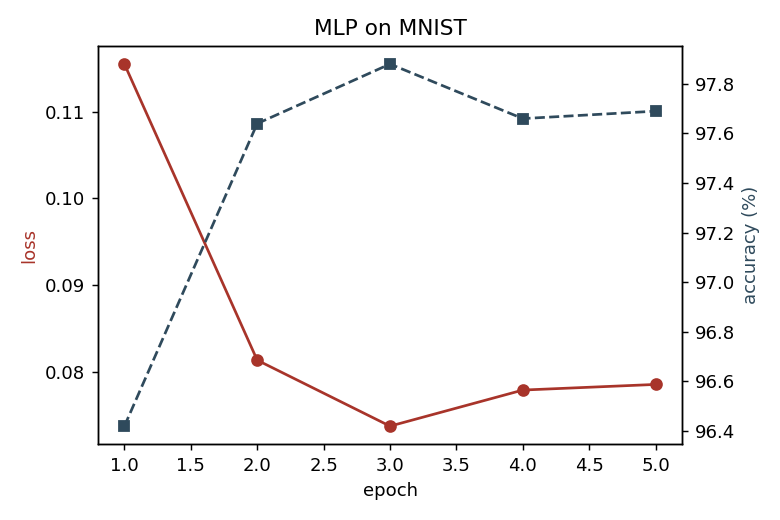
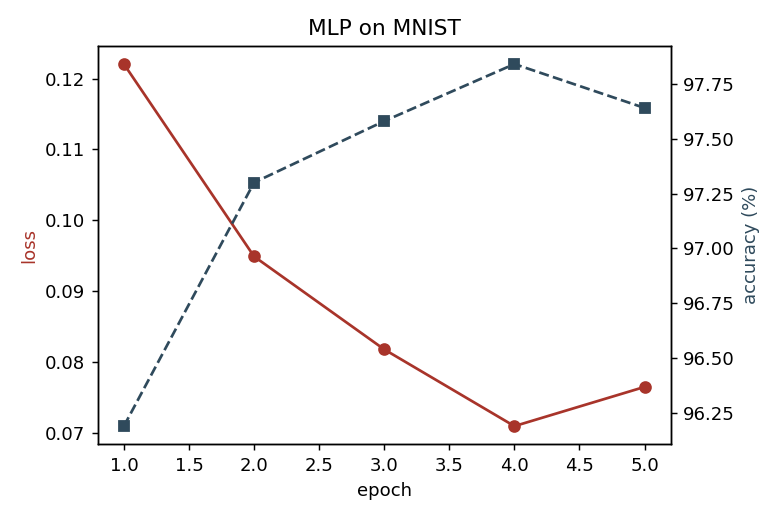
W3: 单隐藏层神经网络（numpy 手写，含注释）+ 决策边界

diff --git a/playground/nn_one_hidden.py b/playground/nn_one_hidden.py
@@ -1,0 +1,253 @@
+"""
+一个隐藏层的神经网络（纯 numpy，对应吴恩达第一门课第三周作业）
+=====================================================================
+网络结构：  输入 2 维  →  隐藏层 n_h 个神经元  →  输出 1 个（0/1 二分类）
+
+    X (2, m)  ──W1,b1──▶  Z1 (n_h, m)  ──tanh──▶  A1  ──W2,b2──▶  Z2 (1, m)  ──sigmoid──▶  A2 (1, m)
+
+约定（和课件一致）：
+    n_x = 输入维度  = 2
+    n_h = 隐藏层单元数 = 8
+    n_y = 输出维度  = 1
+    m   = 样本个数
+    W1 形状 (n_h, n_x)   b1 形状 (n_h, 1)
+    W2 形状 (n_y, n_h)   b2 形状 (n_y, 1)
+
+运行：python playground\\nn_one_hidden.py
+"""
+
+import os
+
+import numpy as np
+import matplotlib
+matplotlib.use("Agg")          # 不弹窗，直接存图
+import matplotlib.pyplot as plt
+
+# 让图里的中文正常显示（默认字体没有汉字，会变成方块）
+plt.rcParams["font.sans-serif"] = ["Microsoft YaHei", "SimHei"]
+plt.rcParams["axes.unicode_minus"] = False
+
+HERE = os.path.dirname(os.path.abspath(__file__))
+
+np.random.seed(1)              # 固定随机种子，结果可复现
+
+
+# =====================================================================
+# 第 1 步：造数据
+# =====================================================================
+def load_data(m=400):
+    """
+    生成一个「同心圆」数据集：内圈是类别 0，外圈是类别 1。
+    这种数据用一条直线分不开，必须靠隐藏层把它「掰弯」——正是我们想验证的事。
+
+    返回：
+        X: (2, m)  每一列是一个样本的两个特征
+        Y: (1, m)  每一列是对应标签（0 或 1）
+    """
+    theta = np.random.rand(m) * 2 * np.pi          # 随机角度
+    r = np.sqrt(np.random.rand(m)) * 3             # 随机半径（开根号保证均匀分布）
+    x1 = r * np.cos(theta)
+    x2 = r * np.sin(theta)
+    X = np.vstack((x1, x2))                        # (2, m)
+
+    Y = (r > 1.5).astype(float).reshape(1, m)      # 半径 > 1.5 算外圈 → 标签 1
+    return X, Y
+
+
+# =====================================================================
+# 第 2 步：初始化参数
+# =====================================================================
+def initialize_parameters(n_x, n_h, n_y):
+    """
+    随机初始化 W（不能全 0，否则同一层的神经元学到的完全一样），b 初始化为 0。
+
+    返回字典：
+        W1 (n_h, n_x)   b1 (n_h, 1)
+        W2 (n_y, n_h)   b2 (n_y, 1)
+    """
+    W1 = np.random.randn(n_h, n_x) * 0.01          # 很小的随机数
+    b1 = np.zeros((n_h, 1))
+    W2 = np.random.randn(n_y, n_h) * 0.01
+    b2 = np.zeros((n_y, 1))
+
+    # 形状自检：形状错了后面会算出一堆莫名其妙的结果，这里先拦住
+    assert W1.shape == (n_h, n_x)
+    assert b1.shape == (n_h, 1)
+    assert W2.shape == (n_y, n_h)
+    assert b2.shape == (n_y, 1)
+
+    return {"W1": W1, "b1": b1, "W2": W2, "b2": b2}
+
+
+# =====================================================================
+# 第 3 步：前向传播（从 X 一路算到预测值 A2）
+# =====================================================================
+def forward_propagation(X, params):
+    """
+    输入：
+        X      (n_x, m)
+        params 上一步的字典
+
+    计算过程（四行，就是网络的全部「前向」）：
+        Z1 = W1·X + b1       线性组合
+        A1 = tanh(Z1)        激活（隐藏层用 tanh，输出在 -1~1）
+        Z2 = W2·A1 + b2      再线性组合
+        A2 = sigmoid(Z2)     压到 0~1，当作「是类别 1 的概率」
+
+    返回：
+        A2     (n_y, m)  预测概率
+        cache  中间结果，反向传播要用（不然得重算一遍）
+    """
+    W1, b1, W2, b2 = params["W1"], params["b1"], params["W2"], params["b2"]
+
+    Z1 = W1 @ X + b1                    # (n_h, m)
+    A1 = np.tanh(Z1)                    # (n_h, m)
+    Z2 = W2 @ A1 + b2                   # (n_y, m)
+    A2 = 1 / (1 + np.exp(-Z2))          # sigmoid，直接写公式，不调库
+
+    assert A2.shape == (1, X.shape[1])
+    cache = {"Z1": Z1, "A1": A1, "Z2": Z2, "A2": A2}
+    return A2, cache
+
+
+# =====================================================================
+# 第 4 步：算代价（预测得有多差，一个数字）
+# =====================================================================
+def compute_cost(A2, Y):
+    """
+    交叉熵：J = -(1/m) Σ [ y·log(â) + (1-y)·log(1-â) ]
+
+    直觉：
+        真值是 1，你预测 0.99 → log(0.99)≈-0.01，代价很小
+        真值是 1，你预测 0.01 → log(0.01)≈-4.6，代价很大
+        所以「猜错且自信」罚得最重。
+    """
+    m = Y.shape[1]
+    # 加 1e-8 防止 log(0) 变成 -inf（数值稳定的小技巧，课件里也这么写）
+    cost = -np.sum(Y * np.log(A2 + 1e-8) + (1 - Y) * np.log(1 - A2 + 1e-8)) / m
+    return float(np.squeeze(cost))
+
+
+# =====================================================================
+# 第 5 步：反向传播（从代价倒着算每层参数该改多少）
+# =====================================================================
+def backward_propagation(params, cache, X, Y):
+    """
+    链式法则，六行公式（这是整个神经网络最核心的地方）：
+
+        dZ2 = A2 - Y                      输出层误差，形状 (n_y, m)
+        dW2 = (1/m) dZ2·A1ᵀ               W2 该改多少，形状 (n_y, n_h)
+        db2 = (1/m) Σ dZ2                 b2 该改多少，形状 (n_y, 1)
+        dZ1 = (W2ᵀ·dZ2) * (1 - A1²)      误差传回隐藏层，tanh 的导数就是 1-A1²
+        dW1 = (1/m) dZ1·Xᵀ                W1 该改多少，形状 (n_h, n_x)
+        db1 = (1/m) Σ dZ1                 b1 该改多少，形状 (n_h, 1)
+
+    返回 grads 字典，和 params 一一对应。
+    """
+    m = X.shape[1]
+    W2 = params["W2"]
+    A1, A2 = cache["A1"], cache["A2"]
+
+    dZ2 = A2 - Y                                  # (n_y, m)
+    dW2 = dZ2 @ A1.T / m                          # (n_y, n_h)
+    db2 = np.sum(dZ2, axis=1, keepdims=True) / m  # (n_y, 1)
+
+    dZ1 = (W2.T @ dZ2) * (1 - A1 ** 2)            # (n_h, m)，tanh' = 1 - tanh²
+    dW1 = dZ1 @ X.T / m                           # (n_h, n_x)
+    db1 = np.sum(dZ1, axis=1, keepdims=True) / m  # (n_h, 1)
+
+    assert dW1.shape == params["W1"].shape
+    assert dW2.shape == params["W2"].shape
+    return {"dW1": dW1, "db1": db1, "dW2": dW2, "db2": db2}
+
+
+# =====================================================================
+# 第 6 步：梯度下降（按梯度反方向挪一小步）
+# =====================================================================
+def update_parameters(params, grads, learning_rate):
+    """
+    W = W - 学习率 × dW
+    b = b - 学习率 × db
+
+    为什么要减：梯度指向上坡，减就是往下坡走，cost 才会变小。
+    """
+    params["W1"] -= learning_rate * grads["dW1"]
+    params["b1"] -= learning_rate * grads["db1"]
+    params["W2"] -= learning_rate * grads["dW2"]
+    params["b2"] -= learning_rate * grads["db2"]
+    return params
+
+
+# =====================================================================
+# 第 7 步：把上面六步串起来训练
+# =====================================================================
+def nn_model(X, Y, n_h=8, num_iterations=10000, learning_rate=1.0, print_cost=True):
+    """
+    每一轮做的事（顺序永远是这个）：
+        前向 → 算代价 → 反向 → 更新
+    """
+    n_x = X.shape[0]
+    n_y = Y.shape[0]
+    params = initialize_parameters(n_x, n_h, n_y)
+    costs = []
+
+    for i in range(num_iterations):
+        A2, cache = forward_propagation(X, params)      # ① 前向：猜
+        cost = compute_cost(A2, Y)                     # ② 算代价：错多少
+        grads = backward_propagation(params, cache, X, Y)  # ③ 反向：谁该改、改多少
+        params = update_parameters(params, grads, learning_rate)  # ④ 更新
+
+        if print_cost and i % 2000 == 0:
+            print(f"第 {i:5d} 轮   cost = {cost:.6f}")
+        costs.append(cost)
+
+    return params, costs
+
+
+# =====================================================================
+# 第 8 步：预测 + 看准确率
+# =====================================================================
+def predict(params, X):
+    """概率 > 0.5 判为 1，否则 0。"""
+    A2, _ = forward_propagation(X, params)
+    return (A2 > 0.5).astype(int)
+
+
+def main():
+    X, Y = load_data(400)
+    print("数据形状 X:", X.shape, " Y:", Y.shape, "\n")
+
+    params, costs = nn_model(X, Y, n_h=8, num_iterations=10000, learning_rate=1.0)
+
+    pred = predict(params, X)
+    acc = np.mean(pred == Y) * 100
+    print(f"\n训练集准确率：{acc:.2f}%")
+
+    # ---- 画决策边界：看看隐藏层把空间掰成什么样了 ----
+    xx, yy = np.meshgrid(np.linspace(-3.2, 3.2, 300), np.linspace(-3.2, 3.2, 300))
+    grid = np.vstack((xx.ravel(), yy.ravel()))
+    Z = predict(params, grid).reshape(xx.shape)
+
+    plt.figure(figsize=(6, 5))
+    plt.contourf(xx, yy, Z, alpha=0.25, cmap="RdBu")
+    plt.scatter(X[0, Y[0] == 0], X[1, Y[0] == 0], s=12, c="#2f4a5c", label="class 0 (内圈)")
+    plt.scatter(X[0, Y[0] == 1], X[1, Y[0] == 1], s=12, c="#a8342a", label="class 1 (外圈)")
+    plt.legend(loc="upper right", fontsize=9)
+    plt.title(f"1 hidden layer (n_h=8), acc={acc:.1f}%")
+    plt.tight_layout()
+    plt.savefig(os.path.join(HERE, "nn_boundary.png"), dpi=130)
+    print("决策边界已保存：playground/nn_boundary.png")
+
+    # ---- 画 cost 曲线 ----
+    plt.figure(figsize=(6, 4))
+    plt.plot(costs, color="#a8342a")
+    plt.xlabel("iteration")
+    plt.ylabel("cost")
+    plt.title("cost 下降曲线")
+    plt.tight_layout()
+    plt.savefig(os.path.join(HERE, "nn_cost.png"), dpi=130)
+    print("cost 曲线已保存：playground/nn_cost.png")
+
+
+if __name__ == "__main__":
+    main()

diff --git a/playground/mlp_torch.py b/playground/mlp_torch.py
@@ -30,12 +30,24 @@ from torch.utils.data import DataLoader
 from torchvision import datasets, transforms
 
 # ---------- 超参数：先动这几个数就行 ----------
-BATCH = 64        # 一次喂多少张图
+# 想快速试别的配置，不用改文件，直接在命令行前面加环境变量，例如：
+#   set HIDDEN=32 && set EPOCHS=3 && python playground\mlp_torch.py
+BATCH = 64          # 一次喂多少张图
 EPOCHS = 5        # 整个训练集看几遍
-LR = 0.001        # 学习率：每一步走多大
+LR = 0.001          # 学习率：每一步走多大
+HIDDEN = 256        # 隐藏层神经元个数
+
+BATCH = int(os.environ.get("BATCH", BATCH))
+EPOCHS = int(os.environ.get("EPOCHS", EPOCHS))
+LR = float(os.environ.get("LR", LR))
+HIDDEN = int(os.environ.get("HIDDEN", HIDDEN))
 
 HERE = os.path.dirname(os.path.abspath(__file__))
 DATA = os.path.join(HERE, "data")
+
+# 固定随机种子：保证每次跑出来的结果一样（不然每次初始化权重不同，准确率会差零点几个点）
+SEED = 0
+torch.manual_seed(SEED)
 
 # ---------- 1. 数据 ----------
 # ToTensor：把 0–255 的像素变成 0–1 的张量
@@ -58,9 +70,9 @@ test_loader = DataLoader(test_ds, batch_size=1000)
 # Linear(256,10)：第二层，256 → 10，对应 0–9 十个类别
 model = nn.Sequential(
     nn.Flatten(),
-    nn.Linear(784, 256),
+    nn.Linear(784, HIDDEN),
     nn.ReLU(),
-    nn.Linear(256, 10),
+    nn.Linear(HIDDEN, 10),
 )
 
 loss_fn = nn.CrossEntropyLoss()                                  # 多分类的标准损失
